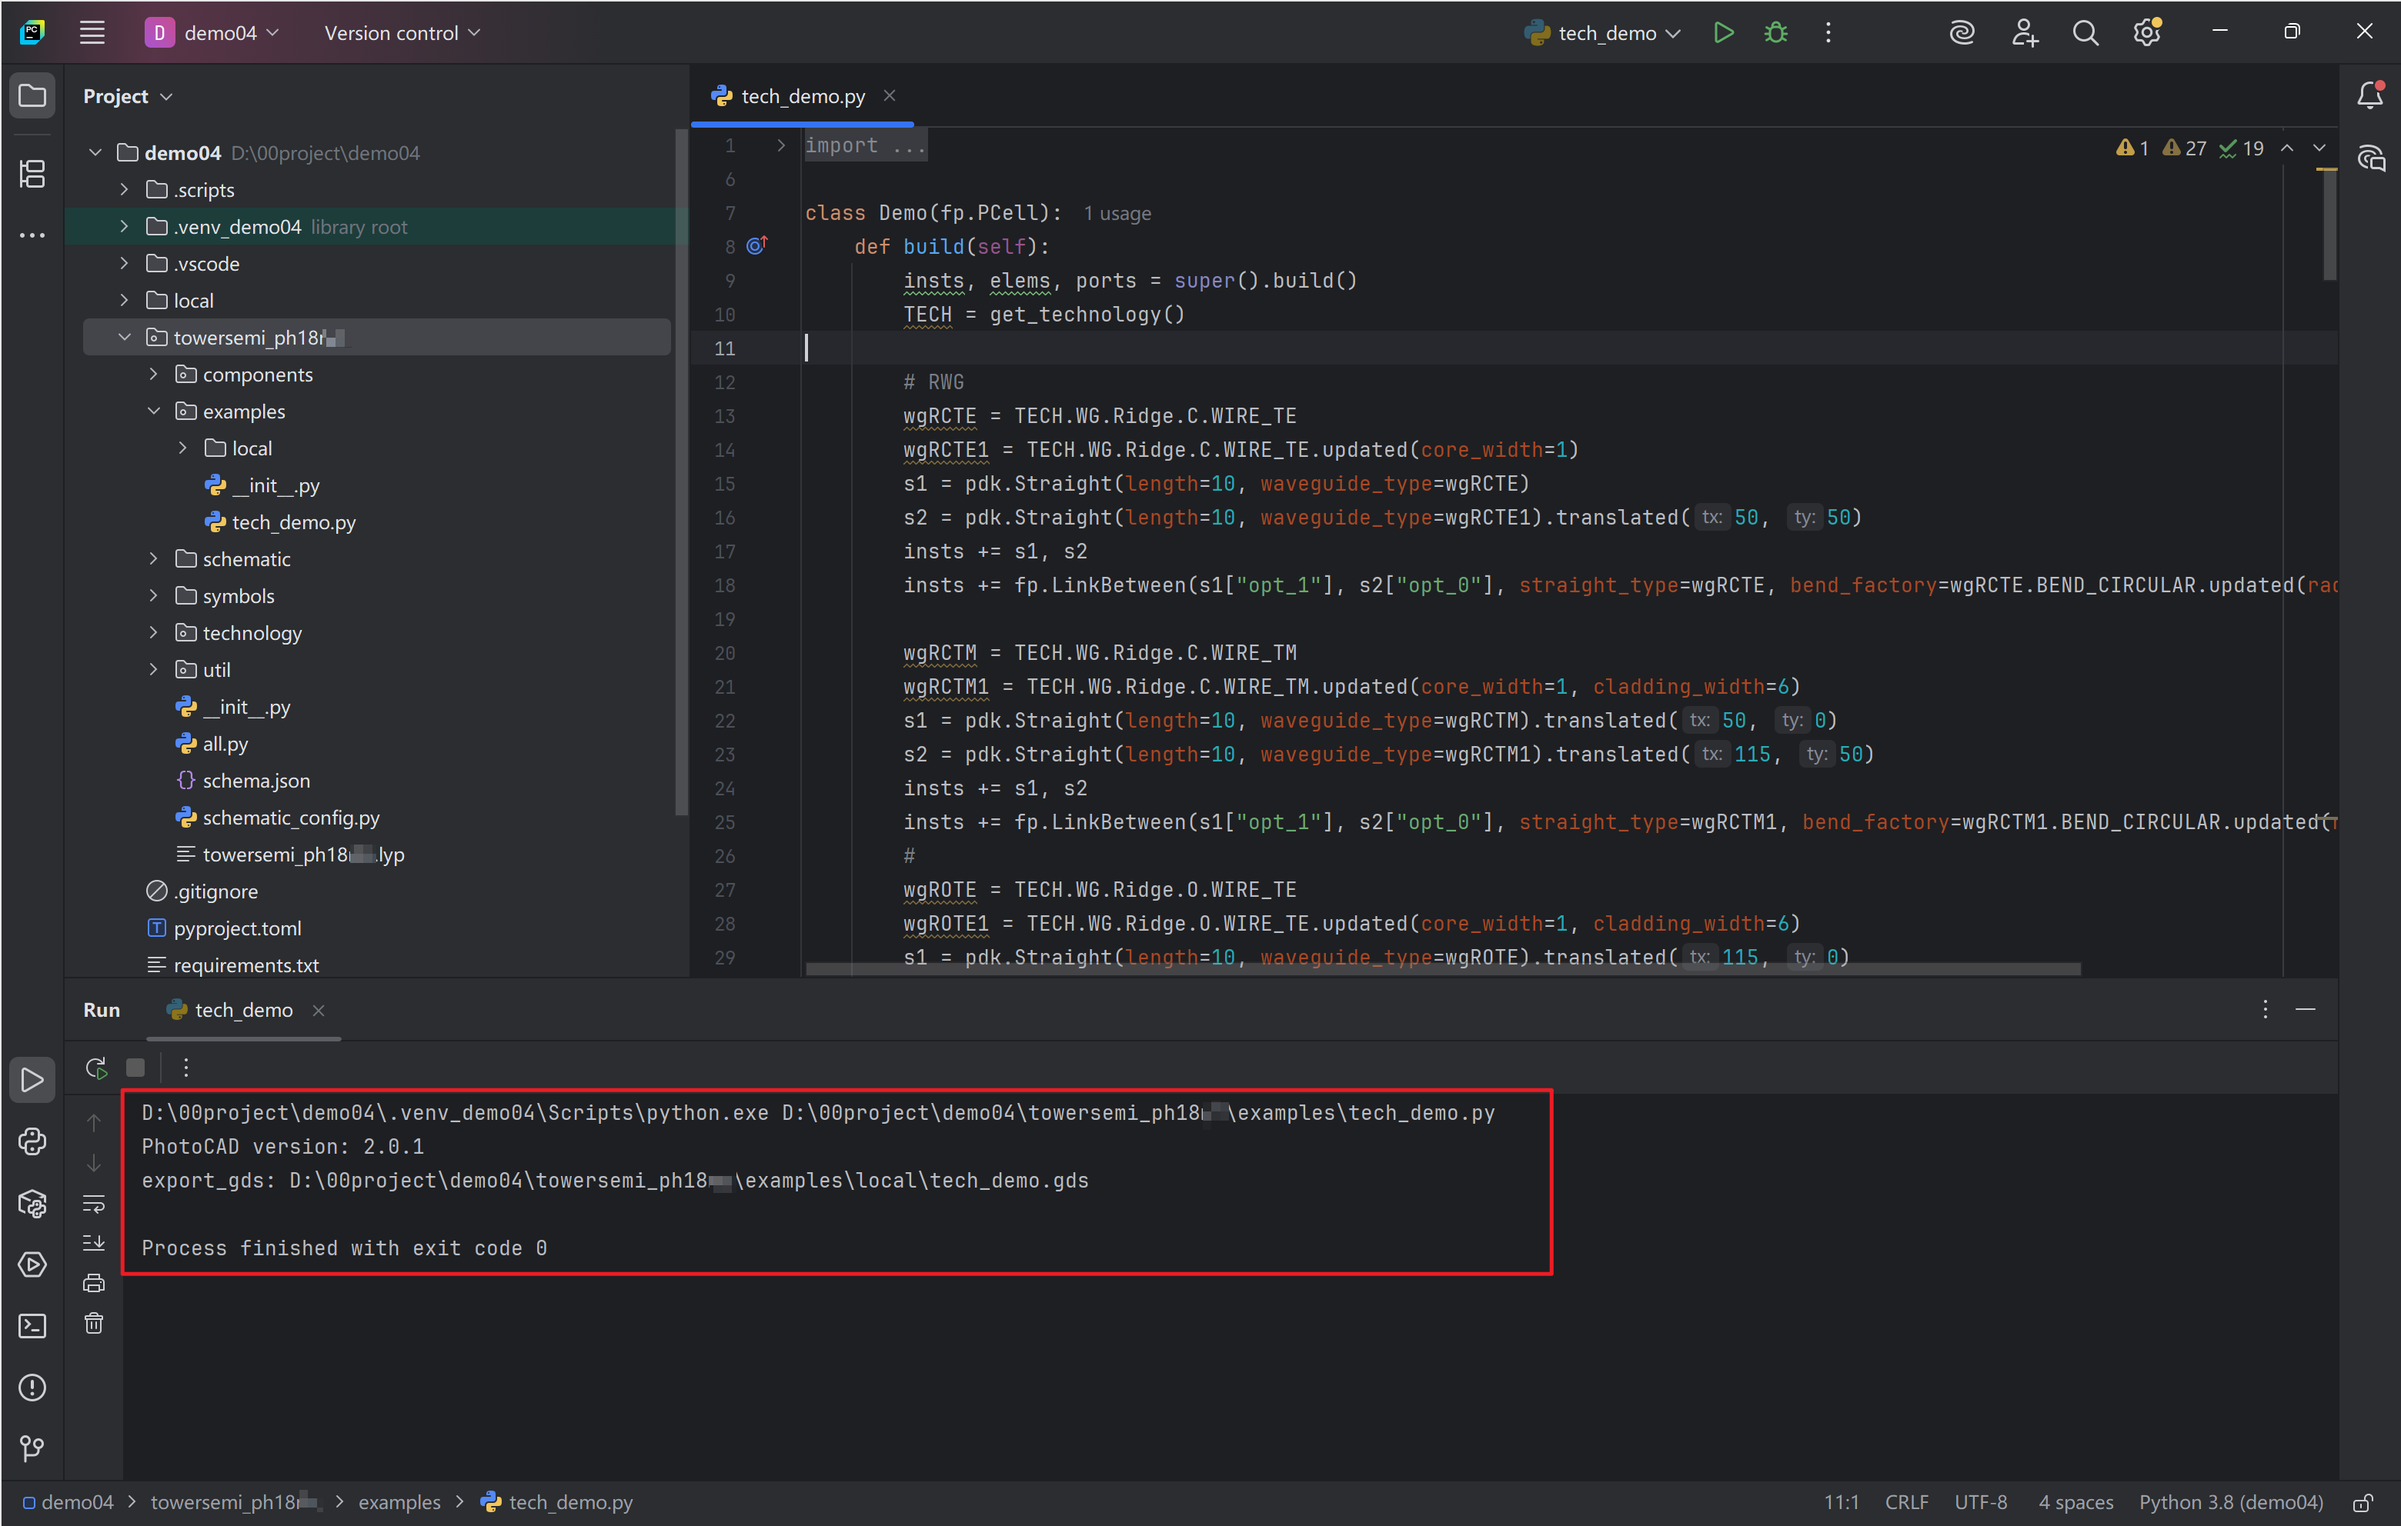
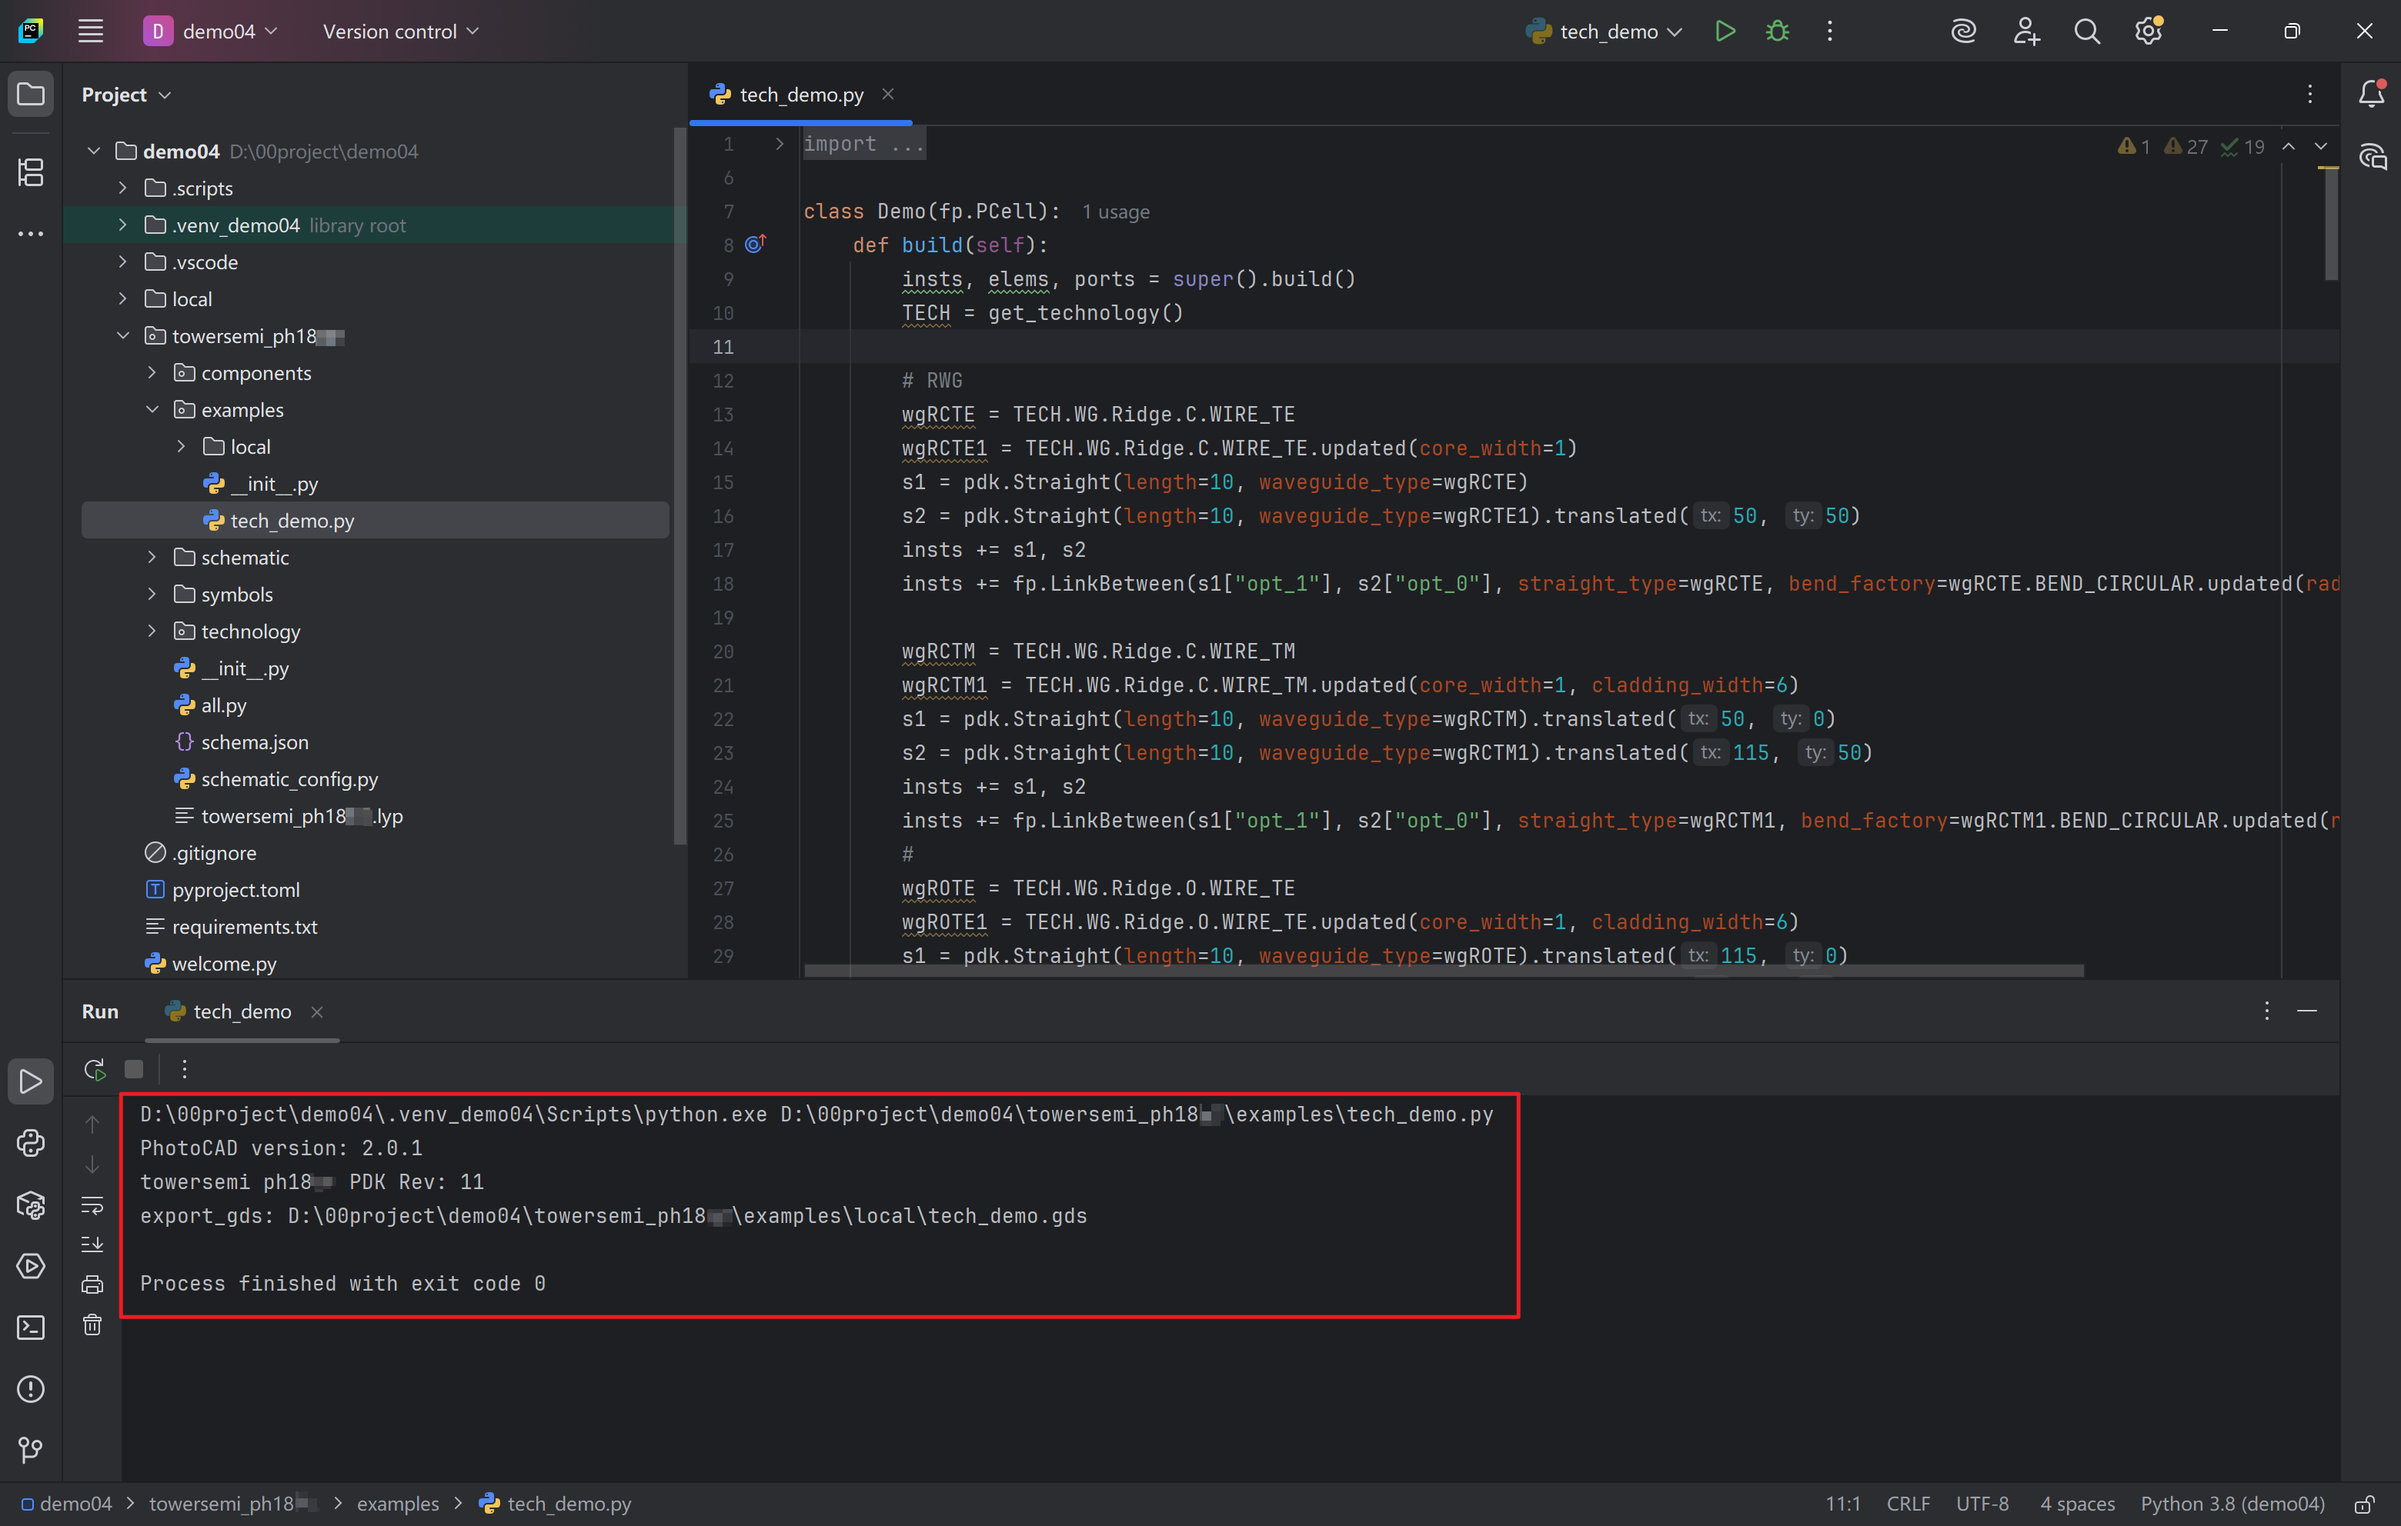
update_delete_util

diff --git a/docs/source/structure/index.rst b/docs/source/structure/index.rst
@@ -3,7 +3,7 @@ PDK structure
 
 Process Design Kit (PDK) is a tool for designated users to generate circuit layouts based on Tower Semiconductor design rules and technology settings.
 
-``towersemi_ph18masl`` package includes six subfolders: ``components``, ``examples``, ``schematic``, ``symbols``, ``technology``, and ``util``.
+``towersemi_ph18masl`` package includes five subfolders: ``components``, ``examples``, ``schematic``, ``symbols`` and ``technology``.
 
 * ``components``
 
@@ -28,12 +28,6 @@ Process Design Kit (PDK) is a tool for designated users to generate circuit layo
     * Store the technology setting which matched the Tower Semiconductor design rules. We recommend users not to change the settings in technology folder.
 
     * See chapter ``Technology setting`` for more specific definition.
-
-* ``util``
-
-    * Useful functions when generating circuit layouts.
-
-    * Please see **PhotoCAD** online manual for more information.
 
 * ``towersemi_ph18masl.lyp`` : This file allows layout tools e.g. Klayout to recognize the layer information when displaying gds file to the layout tool.
 
